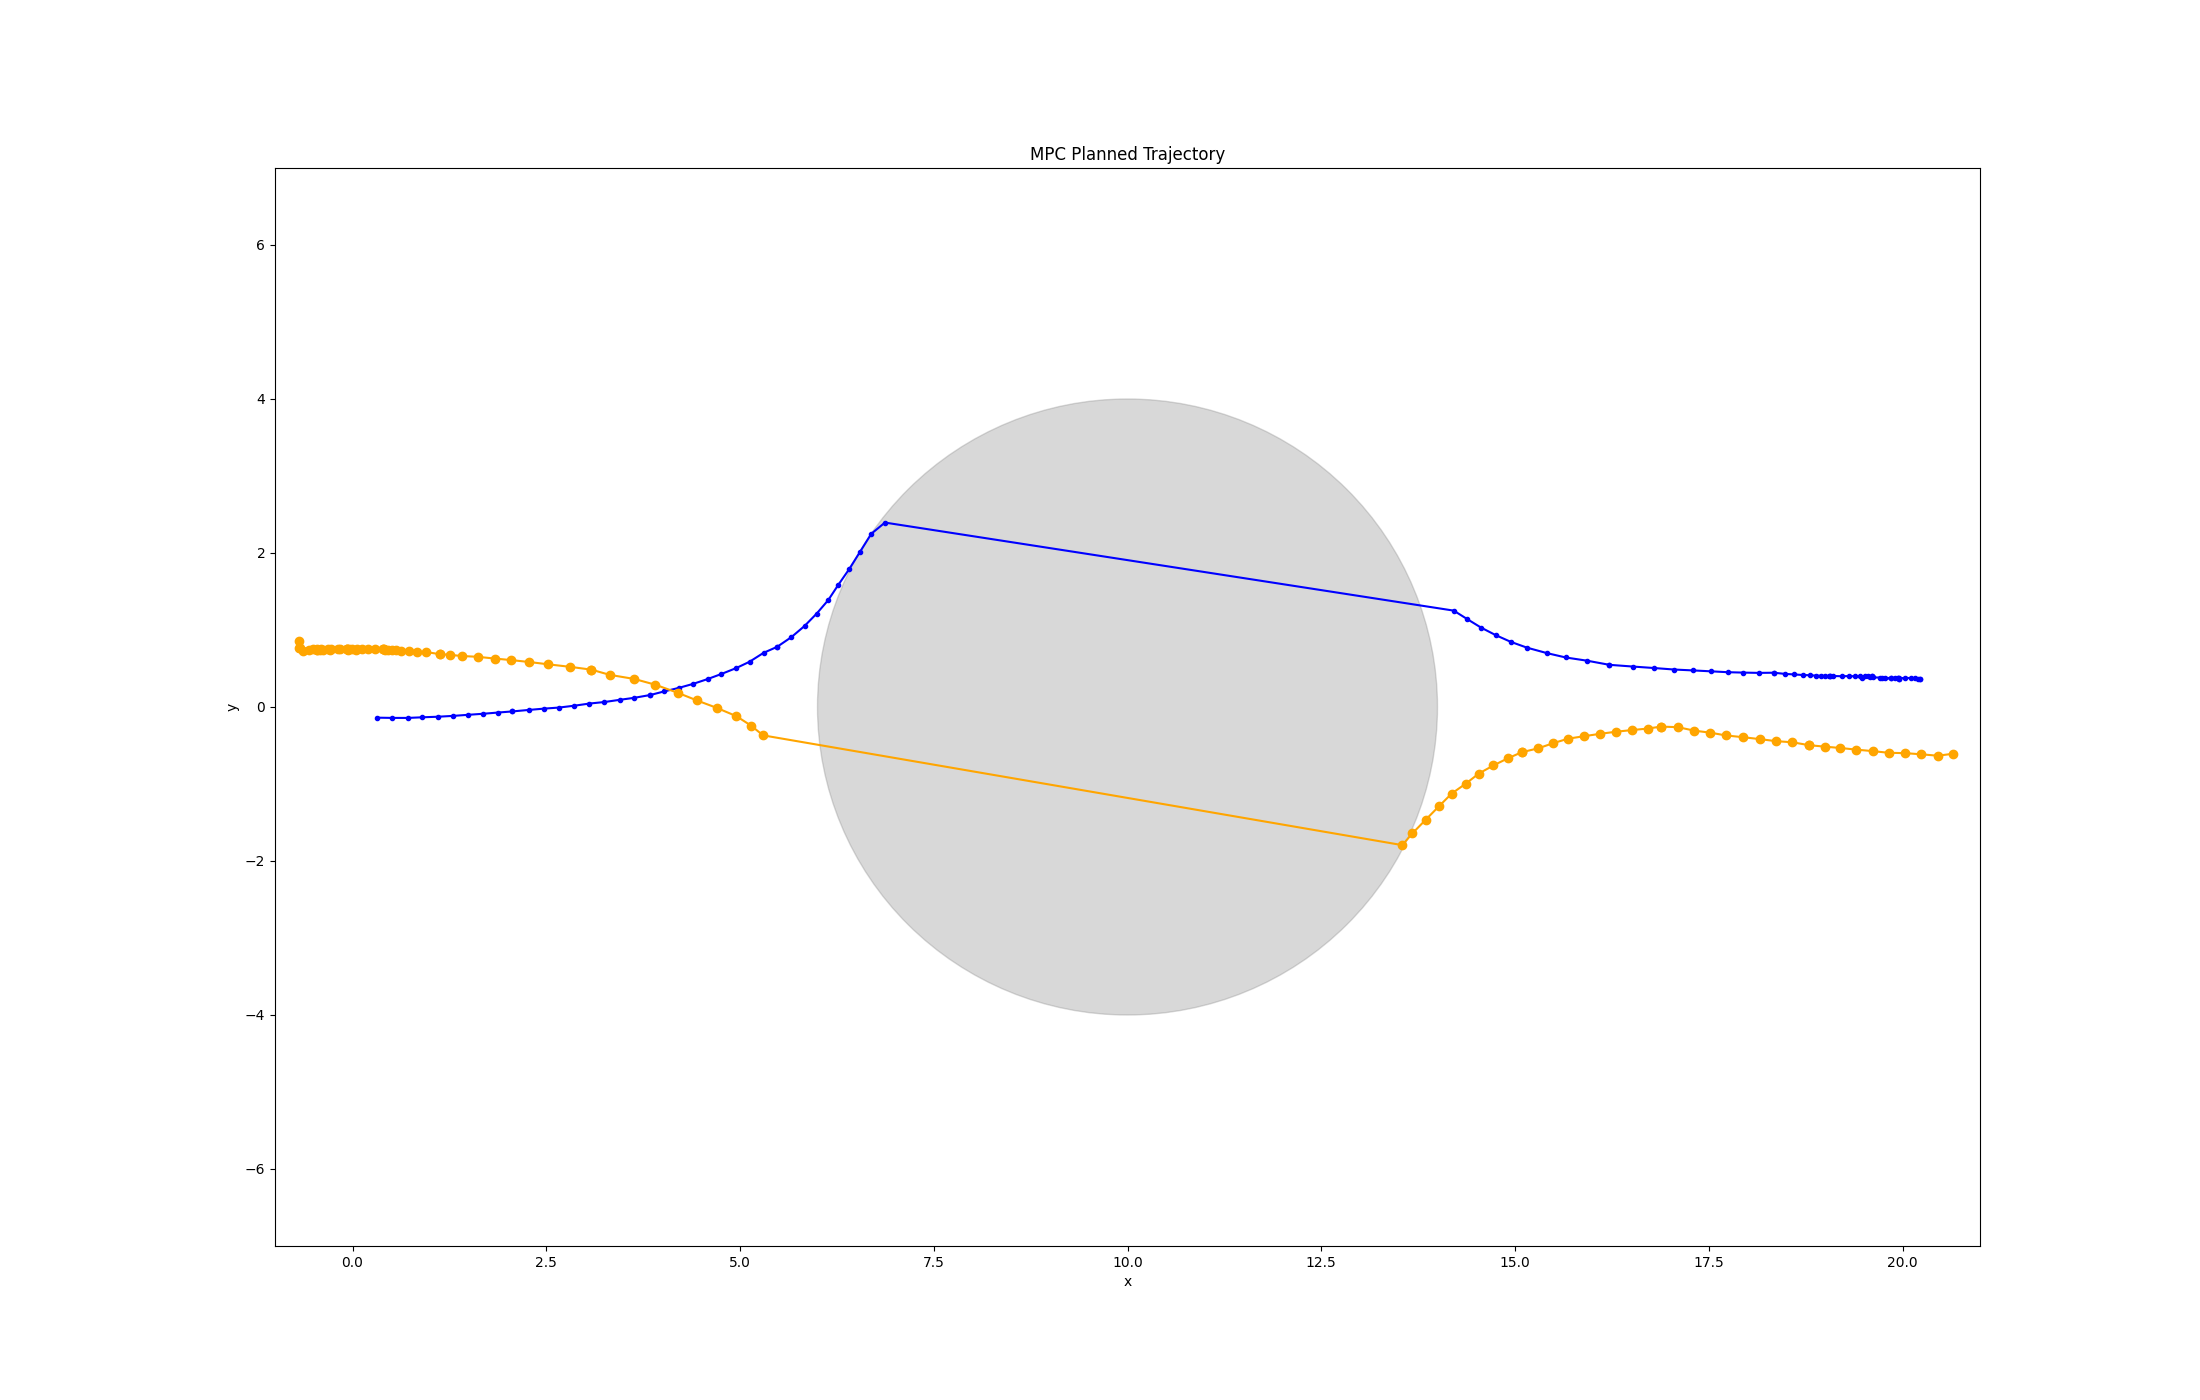
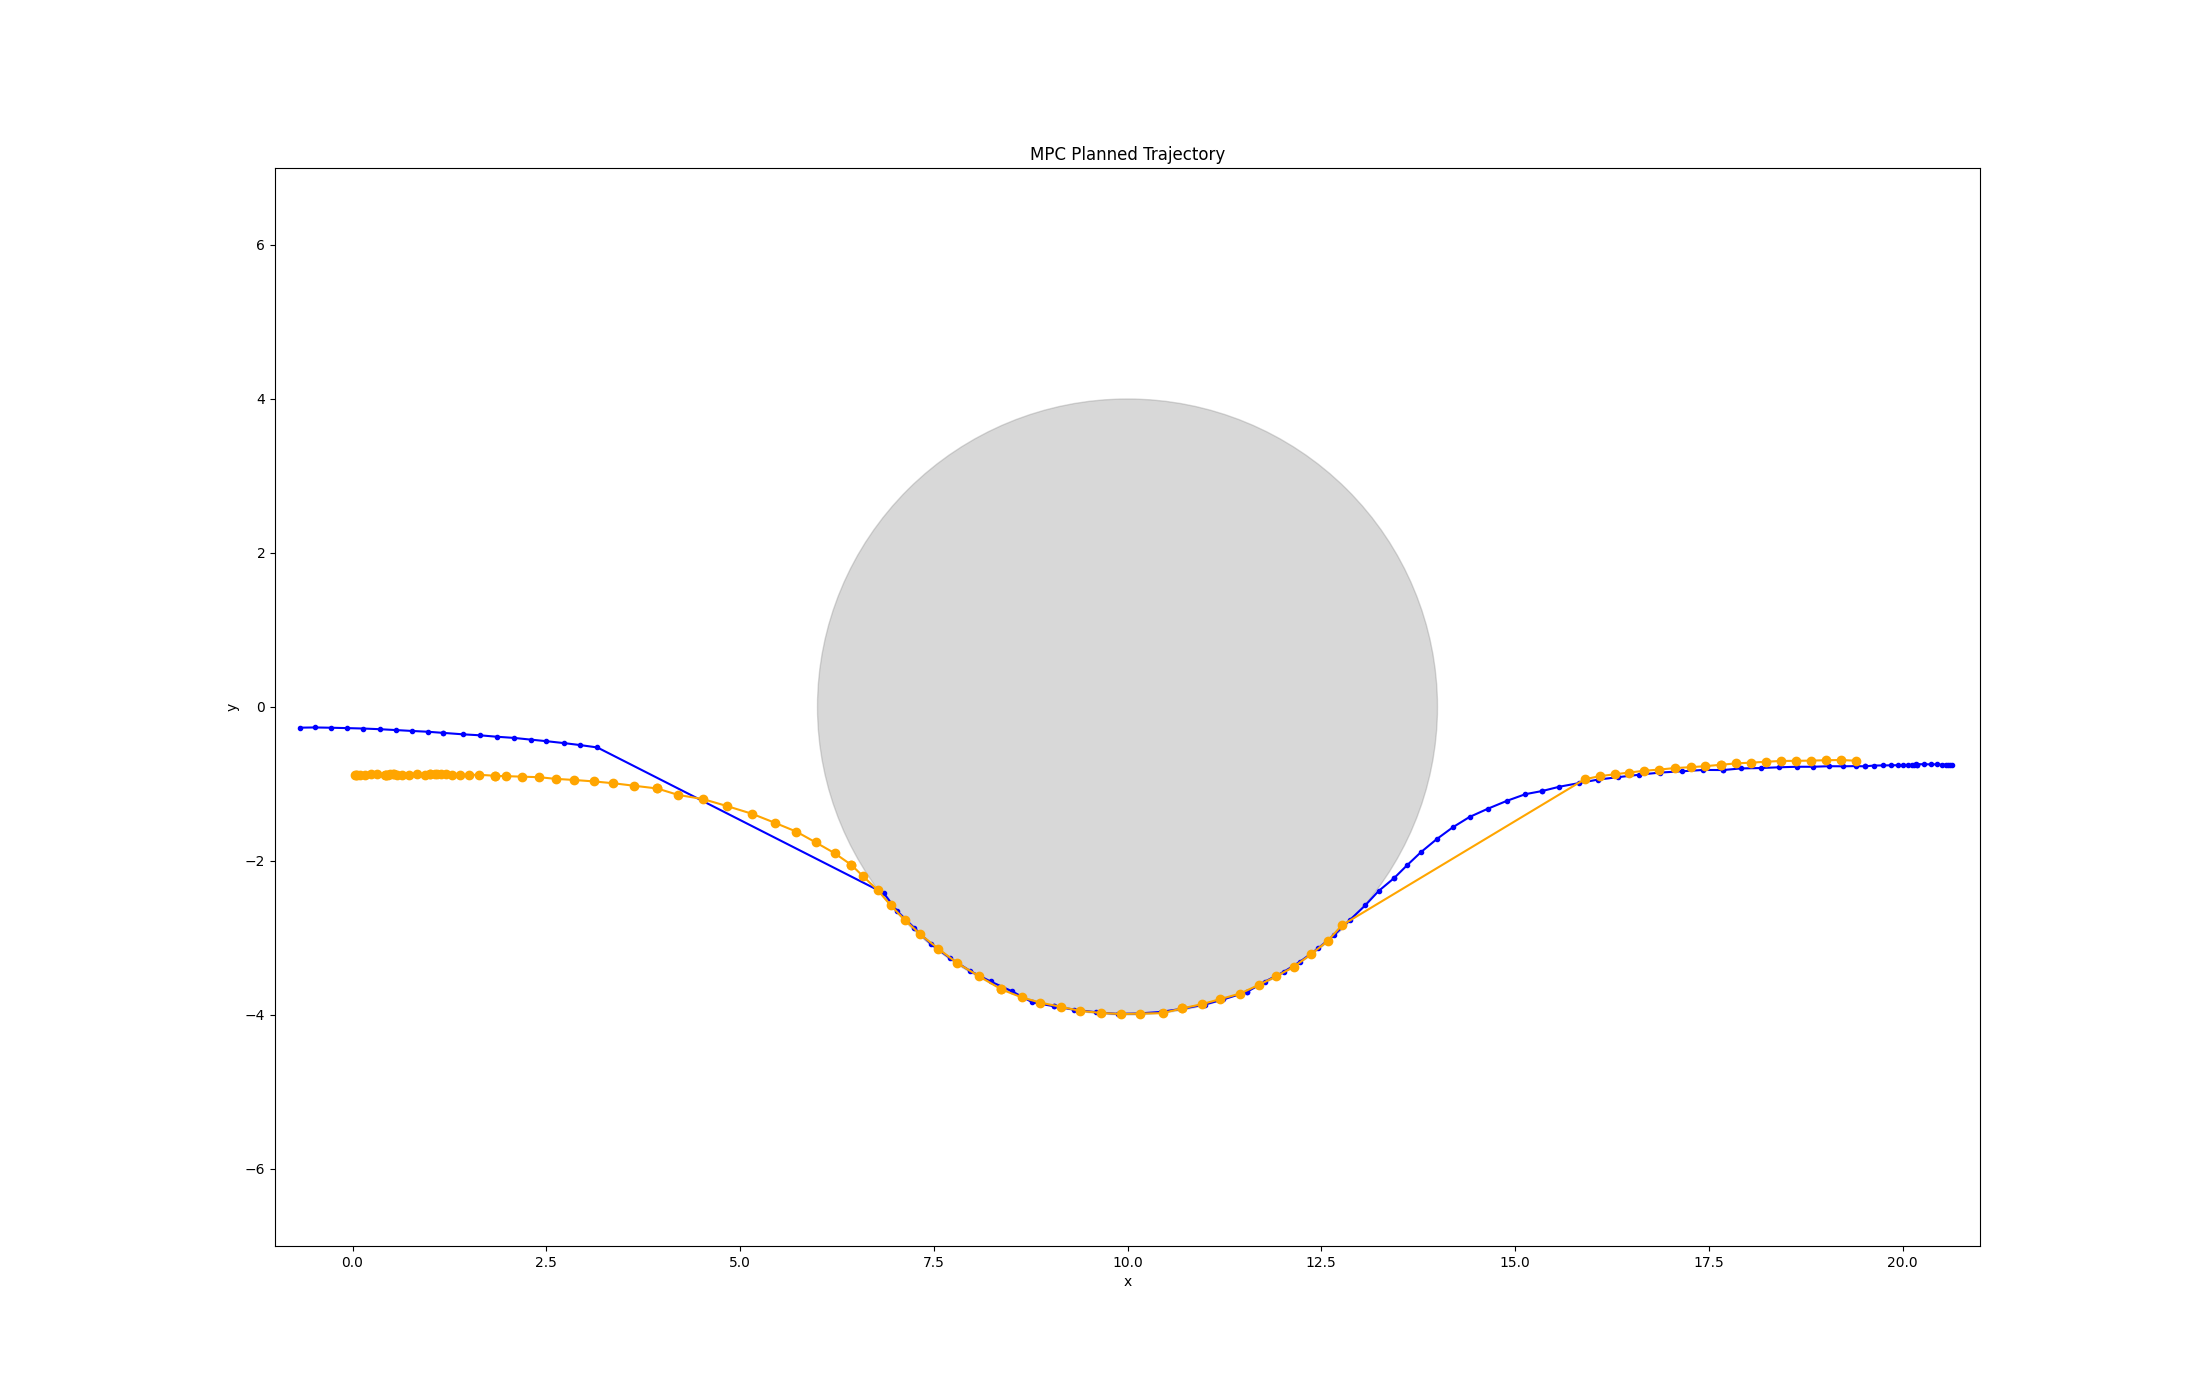
small change

diff --git a/ctde_conditional/mpc_util.py b/ctde_conditional/mpc_util.py
@@ -155,7 +155,7 @@ def mpc_plan_safe(ode_model, env, initial_states, fixed_goals, segment_length=10
               current_states[i] = seg_i[-1]
           prob = expert_likelihood(gmm, likely_vec)
           print(prob)
-          if prob > 0:
+          if prob > 0.05:
               print("valid")
               valid_segment = True
         # Stack the segments for all agents. Shape: (n_agents, segment_length, state_size)
